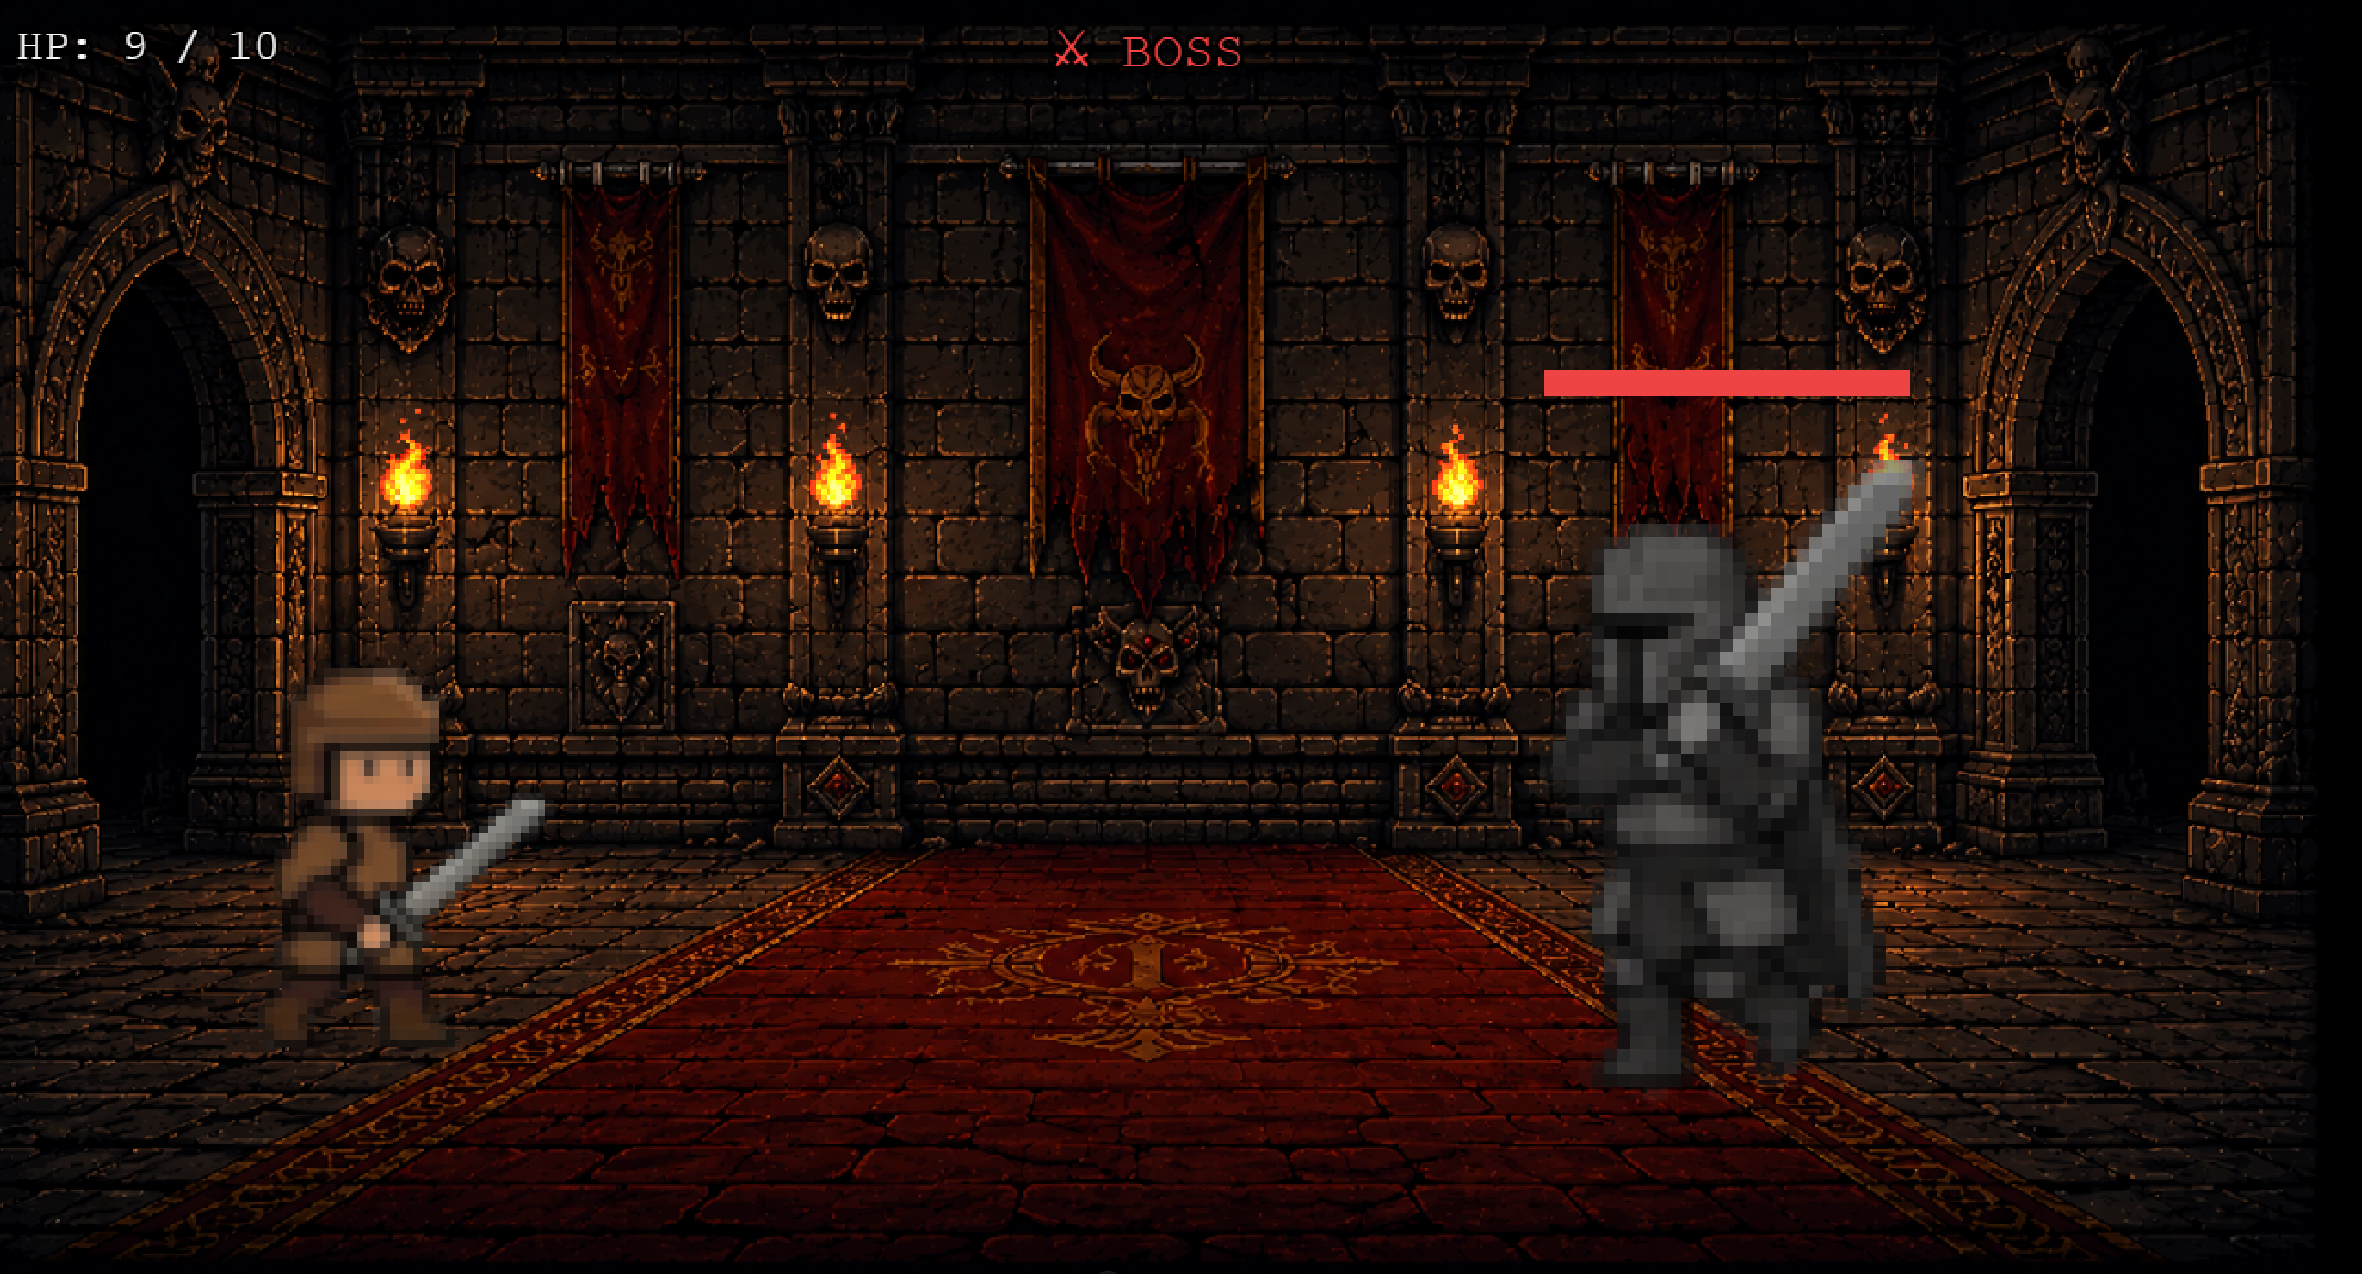
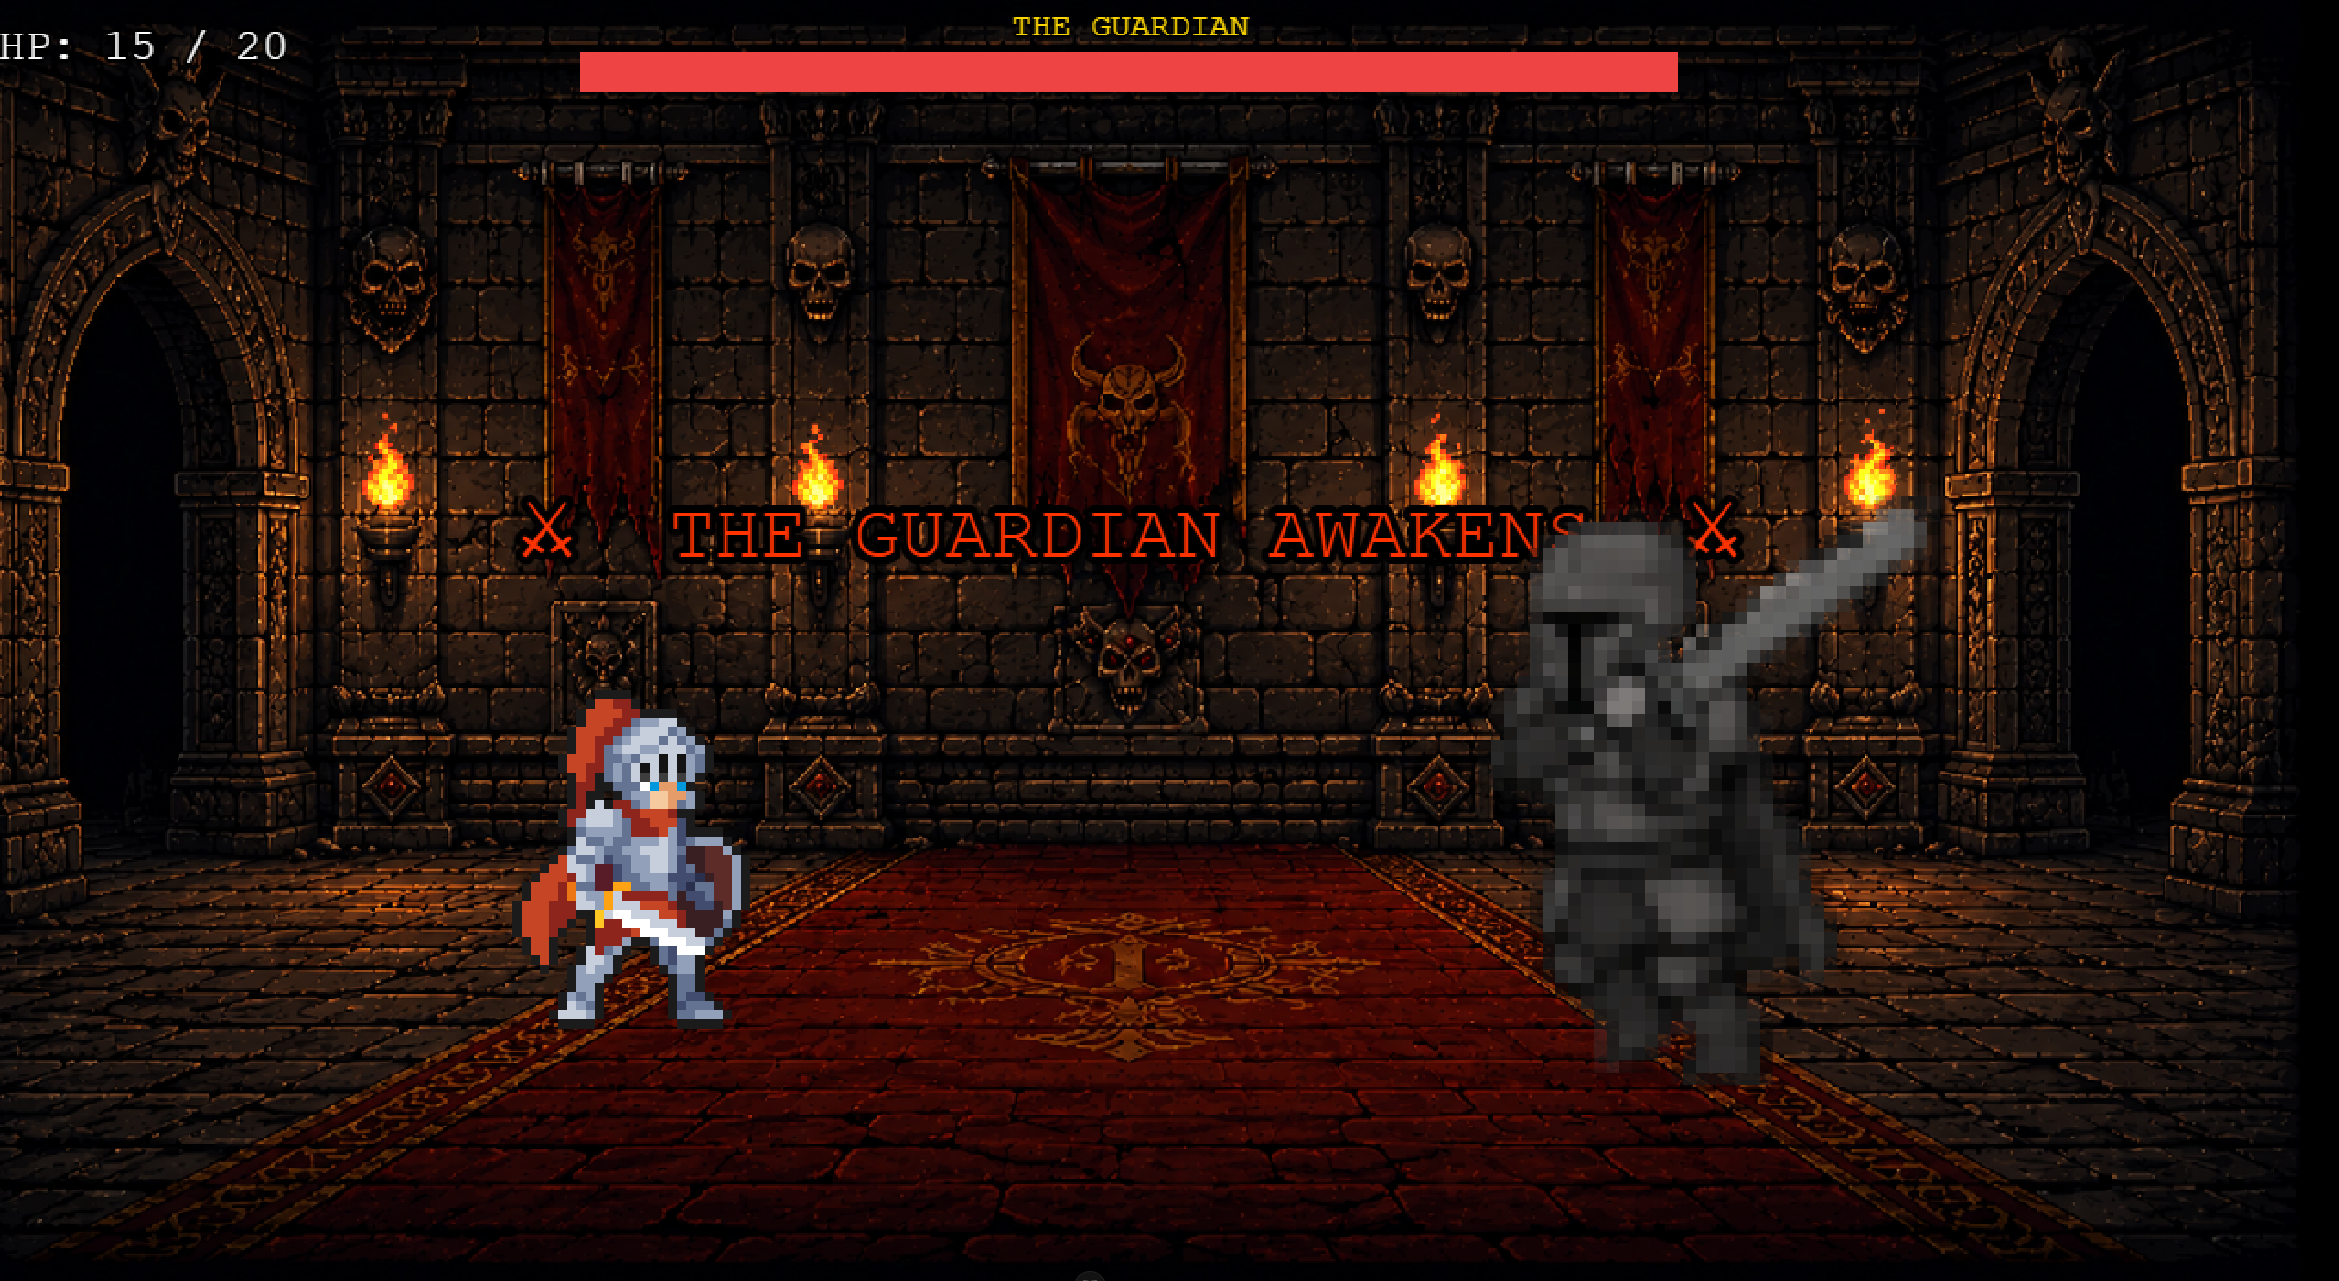
docs: actualizar screenshots del juego en README

diff --git a/README.md b/README.md
@@ -10,13 +10,13 @@ A 2D roguelite game built with Phaser 4 and Vue 3. Fight through dungeon rooms, 
 
 ## Screenshots
 
-| Menu | Combat |
+| Menu | Room 1 |
 |------|--------|
-| ![Menu](docs/screenshots/menu.png) | ![Combat](docs/screenshots/combat.png) |
+| ![Menu](docs/screenshots/menu.png) | ![Room 1](docs/screenshots/room1.png) |
 
-| Upgrades | Boss |
-|----------|------|
-| ![Upgrades](docs/screenshots/upgrades.png) | ![Boss](docs/screenshots/boss.png) |
+| Room 3 | Boss |
+|--------|------|
+| ![Room 3](docs/screenshots/room3.png) | ![Boss](docs/screenshots/boss.png) |
 
 ---
 
